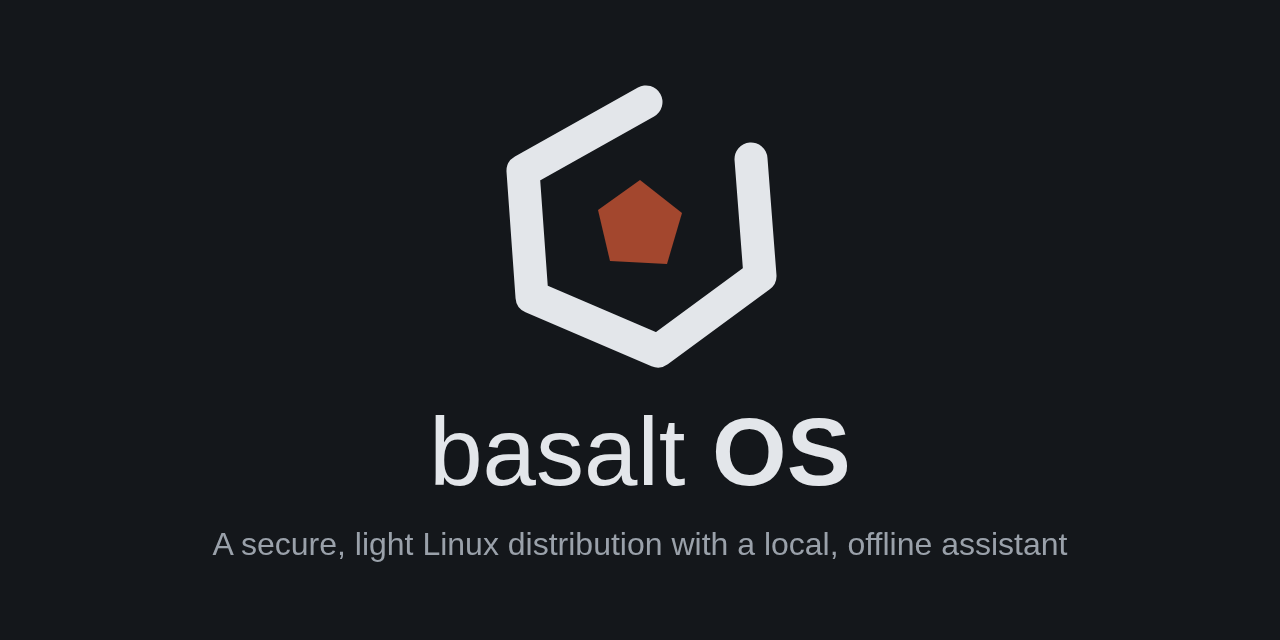
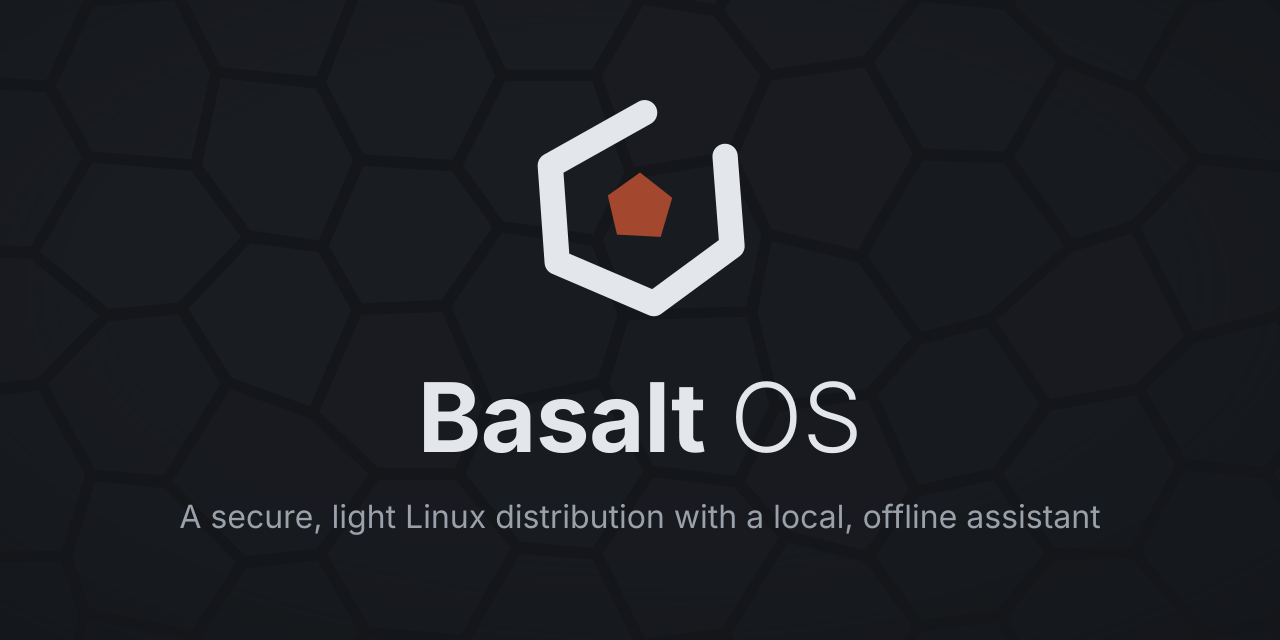
Describe Basalt OS as package-based and use the official brand kit
Basalt OS is a traditional, package-based Fedora derivative updated with
dnf, with btrfs snapshots before and after every package transaction and
rollback from the running system or the boot menu. Rewrite the hero, the
updates and signing principles, the Fedora base section and milestone 0,
and drop every mention of images and bootc.

Replace the provisional header wordmark, favicons and social preview with
the official Basalt OS kit (light and dark lockups, favicon set, social
preview with the site tagline).

Claude-Session: https://claude.ai/code/session_01AjGbzc7yUzqhLDndVND8ac

Changed region(s): [[0.125, 0.125, 0.875, 0.875]]

diff --git a/index.html b/index.html
@@ -6,7 +6,7 @@
     <title>Basalt OS: a secure, light Linux distribution</title>
     <meta
       name="description"
-      content="Basalt OS is a secure, light Linux distribution based on Fedora, with encryption on by default, image-based updates with rollback, and a local assistant that works offline. Pre-alpha."
+      content="Basalt OS is a secure, light Linux distribution based on Fedora, with encryption on by default, automatic snapshots and rollback around every update, and a local assistant that works offline. Pre-alpha."
     />
     <link rel="canonical" href="https://basalt-os.org/" />
     <meta name="theme-color" content="#f6f5f2" media="(prefers-color-scheme: light)" />
@@ -21,7 +21,7 @@
     <meta property="og:title" content="Basalt OS: a secure, light Linux distribution" />
     <meta
       property="og:description"
-      content="Secure defaults, image-based updates with rollback, and a local assistant that works offline. Based on Fedora. Pre-alpha."
+      content="Secure defaults, updates you can undo with automatic snapshots, and a local assistant that works offline. Based on Fedora. Pre-alpha."
     />
     <meta property="og:url" content="https://basalt-os.org/" />
     <meta property="og:image" content="https://basalt-os.org/assets/social-preview.png" />
@@ -32,11 +32,11 @@
     <meta name="twitter:title" content="Basalt OS: a secure, light Linux distribution" />
     <meta
       name="twitter:description"
-      content="Secure defaults, image-based updates with rollback, and a local assistant that works offline. Based on Fedora. Pre-alpha."
+      content="Secure defaults, updates you can undo with automatic snapshots, and a local assistant that works offline. Based on Fedora. Pre-alpha."
     />
     <meta name="twitter:image" content="https://basalt-os.org/assets/social-preview.png" />
 
-    <link rel="stylesheet" href="assets/site.css?v=1" />
+    <link rel="stylesheet" href="assets/site.css?v=2" />
   </head>
   <body>
     <a class="skip" href="#main">Skip to content</a>
@@ -44,11 +44,10 @@
     <header class="site-header">
       <div class="wrap">
         <a class="brand" href="./" aria-label="Basalt OS home">
-          <svg viewBox="0 0 512 512" aria-hidden="true" focusable="false">
-            <path class="mark-ring" d="M 445.44,143.36 L 460.80,343.04 L 286.72,471.04 L 71.68,378.88 L 56.32,163.84 L 266.24,46.08" fill="none" stroke-width="56.32" stroke-linejoin="round" stroke-linecap="round" />
-            <polygon class="mark-core" points="256.00,179.20 327.68,235.52 302.08,322.56 204.80,317.44 184.32,230.40" />
-          </svg>
-          <span class="wordmark" aria-hidden="true">basalt <span>OS</span></span>
+          <picture>
+            <source srcset="assets/lockup-on-dark.svg" media="(prefers-color-scheme: dark)" />
+            <img src="assets/lockup.svg" width="634" height="200" alt="Basalt OS" />
+          </picture>
         </a>
         <nav class="nav" aria-label="Main">
           <a class="nav-optional" href="#principles">Principles</a>
@@ -69,8 +68,9 @@
           <h1 id="hero-title">Basalt OS</h1>
           <p class="tagline">A secure, light Linux distribution with a local, offline assistant.</p>
           <p class="lede">
-            Secure defaults from the first boot, the whole system updated as one signed image that
-            you can roll back with a single command, and an assistant that runs on your machine.
+            Secure defaults from the first boot, updates you can undo because the system takes a
+            snapshot before and after every change, and an assistant that runs on your machine.
+            Install it once and keep it current with dnf.
             Basalt OS is in early development and there is nothing to download yet.
           </p>
           <div class="actions">
@@ -99,7 +99,7 @@
               </svg>
               <h3>SELinux enforcing, always</h3>
               <p>
-                Mandatory access control is on in every image and checked at build time. It is never
+                Mandatory access control is on in every installation and checked at build time. It is never
                 switched to permissive to make something work.
               </p>
             </li>
@@ -119,10 +119,12 @@
                 <path class="icon-line" d="M8 34l16 8 16-8M8 26l16 8 16-8" />
                 <path class="icon-fill" d="M8 18l16-8 16 8-16 8z" />
               </svg>
-              <h3>Image-based updates</h3>
+              <h3>Updates you can undo</h3>
               <p>
-                The system is built and updated as one image with bootc. If an update goes wrong,
-                one command rolls back to the previous image.
+                Install once and update with dnf; what you install stays across updates. A btrfs
+                snapshot is taken before and after every package change, so you can roll back from
+                the running system or pick a snapshot in the boot menu. Home, logs and databases
+                live in their own subvolumes and a rollback never touches them.
               </p>
             </li>
             <li class="principle">
@@ -130,10 +132,10 @@
                 <path class="icon-line" d="M12 6h18l8 8v28H12zM30 6v8h8M18 32l4 4 8-9" />
                 <path class="icon-fill" d="M17 14h8v4h-8z" />
               </svg>
-              <h3>Signed images and packages</h3>
+              <h3>Signed packages</h3>
               <p>
-                Images and packages are signed, and the system checks signatures before it accepts
-                an update.
+                Packages and the repository metadata are signed, and the system checks signatures
+                before it installs an update. Checksums of the installation media are signed too.
               </p>
             </li>
             <li class="principle">
@@ -144,7 +146,7 @@
               </svg>
               <h3>Light, server first</h3>
               <p>
-                The first image is a small server system with only what it needs. A desktop edition
+                The first edition is a small server system with only what it needs. A desktop edition
                 comes later, on the same base.
               </p>
             </li>
@@ -168,9 +170,9 @@
           <p class="eyebrow">Base</p>
           <h2 id="base-title">Based on Fedora.</h2>
           <p class="section-intro">
-            Basalt OS builds on Fedora's bootable container images: Fedora packages, the Fedora
-            kernel and its signed boot chain. Basalt OS adds its own defaults, tools and assistant
-            on top.
+            Basalt OS is a traditional, package-based Fedora derivative. It uses Fedora packages
+            from Fedora's own mirrors, the Fedora kernel and its signed boot chain. Basalt OS adds
+            its own defaults, tools and assistant, and a small signed package repository.
           </p>
           <p class="note">
             Basalt OS is an independent project. It is not affiliated with or endorsed by the Fedora
@@ -192,7 +194,7 @@
                 <h3>Milestone 0</h3>
                 <span class="tag tag-current">In progress</span>
               </div>
-              <p>A bootable, signed image with disk encryption, updates and rollback.</p>
+              <p>An installable system with disk encryption, automatic snapshots and rollback.</p>
             </li>
             <li class="step">
               <div class="step-head">
@@ -220,7 +222,7 @@
                 <h3>Desktop edition</h3>
                 <span class="tag">Later</span>
               </div>
-              <p>A desktop image based on Sway, with the same secure defaults.</p>
+              <p>A desktop edition based on Sway, with the same secure defaults.</p>
             </li>
           </ol>
         </div>
@@ -248,7 +250,7 @@
                 <h3>basalt-os/basalt-os</h3>
                 <span class="tag">Coming soon</span>
               </div>
-              <p>The source of the image and its tools.</p>
+              <p>The source of the system and its tools.</p>
               <p class="mono">github.com/basalt-os/basalt-os</p>
             </article>
             <article class="link-card">

diff --git a/404.html b/404.html
@@ -10,17 +10,16 @@
     <link rel="icon" href="/favicon.ico" sizes="32x32" />
     <link rel="icon" href="/assets/favicon.svg" type="image/svg+xml" />
     <link rel="apple-touch-icon" href="/assets/apple-touch-icon.png" />
-    <link rel="stylesheet" href="/assets/site.css?v=1" />
+    <link rel="stylesheet" href="/assets/site.css?v=2" />
   </head>
   <body>
     <header class="site-header">
       <div class="wrap">
         <a class="brand" href="/" aria-label="Basalt OS home">
-          <svg viewBox="0 0 512 512" aria-hidden="true" focusable="false">
-            <path class="mark-ring" d="M 445.44,143.36 L 460.80,343.04 L 286.72,471.04 L 71.68,378.88 L 56.32,163.84 L 266.24,46.08" fill="none" stroke-width="56.32" stroke-linejoin="round" stroke-linecap="round" />
-            <polygon class="mark-core" points="256.00,179.20 327.68,235.52 302.08,322.56 204.80,317.44 184.32,230.40" />
-          </svg>
-          <span class="wordmark" aria-hidden="true">basalt <span>OS</span></span>
+          <picture>
+            <source srcset="/assets/lockup-on-dark.svg" media="(prefers-color-scheme: dark)" />
+            <img src="/assets/lockup.svg" width="634" height="200" alt="Basalt OS" />
+          </picture>
         </a>
       </div>
     </header>

diff --git a/assets/site.css b/assets/site.css
@@ -119,21 +119,10 @@ a:hover {
   text-decoration: none;
 }
 
-.brand svg {
-  width: 2rem;
-  height: 2rem;
-}
-
-.wordmark {
-  font-size: 1.35rem;
-  font-weight: 300;
-  letter-spacing: -0.01em;
-  line-height: 1;
-}
-
-/* The logotype sets "basalt" heavier, as in the logo kit. */
-.wordmark span {
-  font-weight: 700;
+/* Official lockup (634 x 200 viewBox); the dark variant carries the dark page background. */
+.brand img {
+  width: auto;
+  height: 2.75rem;
 }
 
 .nav {
